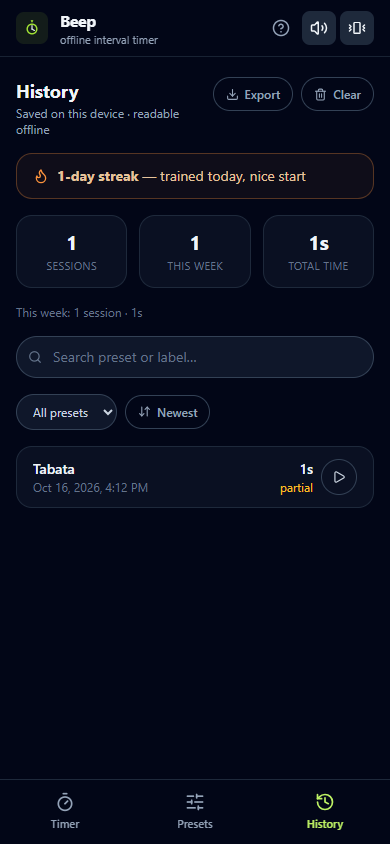
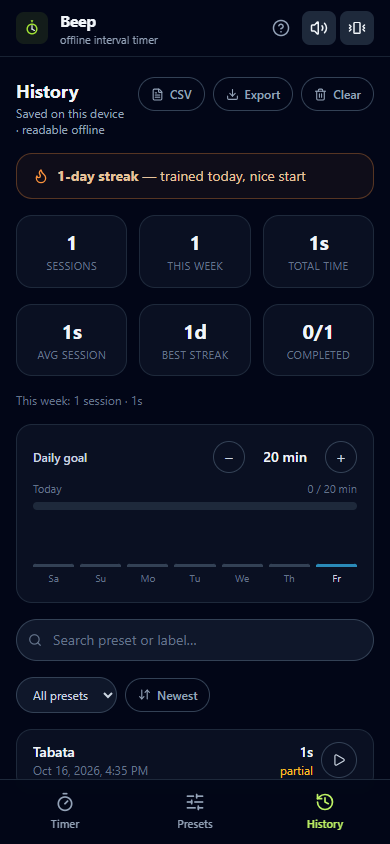
feat(insights): history stats, 7-day activity strip with daily goal, CSV export

diff --git a/public/sw.js b/public/sw.js
@@ -10,7 +10,7 @@
  * Bump VERSION whenever icons / manifest / anything precached changes so old
  * caches get garbage-collected on activate — `npm run bump:cache` does it.
  */
-const VERSION = 'v6';
+const VERSION = 'v7';
 const CACHE = `beep-${VERSION}`;
 
 const CORE_ASSETS = [

diff --git a/README.md b/README.md
@@ -45,6 +45,8 @@
 - **Preferences where they're used** (chips on the timer card): Big numbers (96px digits for across-the-room viewing), Halfway chime (opt-in midpoint cue), Voice cues ("Work, round 3 of 8" via `speechSynthesis`), Left-handed layout (controls swap sides), Auto-pause when backgrounded — plus a **volume slider** and **Test sound / Test haptics** buttons to check the cues before a real session <!-- claim:prefs -->
 - **Cue sound themes** — Beep / Chime / Click in preferences: each theme runs the same cue sequence through a different waveform and envelope (still zero audio files, still offline), the switch plays a preview on tap, and the choice persists across restarts <!-- claim:cues -->
 - **One-file full backup & restore** — presets + history + settings as a single `beep-backup-YYYY-MM-DD.json`; restore **merges by id** (anything already on this device wins, so re-importing the same file is a no-op), validates and clamps every field, and reports exactly what it added or skipped — never a silent overwrite <!-- claim:backup -->
+- **Stats that tell the truth** — average session, best-ever streak and completed/partial counts next to the weekly totals, plus a **7-day activity strip** measured against a **daily minutes goal** (a ±5 min stepper in history; 0 = goal off) <!-- claim:stats -->
+- **CSV export next to the JSON one** — one RFC-quoted row per session (labels with commas/quotes cannot break the row), opens straight into any spreadsheet <!-- claim:csv -->
 - Denied-permission UX: the Timer screen says **once** (dismissible) that notifications are off and what still works — no silent failure <!-- no-check: requires a browser profile with notifications already denied, which headless Chrome cannot set up mid-session; the ask-once permission flow itself is covered by the session-start check -->
 - "Offline" pill appears the moment the network drops <!-- no-check: needs the network to drop mid-session; the offline phase kills the server and reloads instead, which proves the cache path but not the pill's live transition. Behaviour on a real phone: Android checklist row 3. -->
 
@@ -189,21 +191,21 @@ Any other static host works too — the build uses a relative base (`base: './'`
 └─ .github/workflows/        # deploy.yml (test-then-deploy) + ci.yml (test on push/PR)
 ```
 
-## Automated checks — `npm run test:smoke` (70 checks) + `npm run test:claims`
+## Automated checks — `npm run test:smoke` (74 checks) + `npm run test:claims`
 
 **`npm run test:claims`** is the gate that makes this section meaningful. Until Round 4, "every feature claim is backed by a check" was a *discipline* — nothing read the README. `scripts/audit-claims.mjs` now parses every feature bullet under **Core** / **Installable PWA** and fails the build if a bullet declares no backing, or if a claim id resolves to no check:
 
 ```
-claim-audit: 33 feature bullets — 26 backed by checks, 7 exempt (with written reasons), 0 broken. 70 checks in the suite.
+claim-audit: 35 feature bullets — 28 backed by checks, 7 exempt (with written reasons), 0 broken. 74 checks in the suite.
 ```
 
 Each bullet carries either an id that resolves to a real check name (`<!-- claim:ring-tap -->`, or the older `(#1)` style) **or** `<!-- no-check: reason -->`, whose reason may not be empty. Exemptions are real, numbered, and printed on every run — notification *delivery*, OS throttling, haptics/audio, the install prompt and the Wake Lock hint are the seven that cannot be asserted in headless Chrome, and each says so and points at the device-checklist row that proves it. Verified to fail: add an unbacked bullet and CI exits 1.
 
-70 checks in real headless Chrome: app renders · zero console/page errors · no horizontal overflow at 390 px · **the preset rail proven scrollable with a visible scrollbar and a "more to the right" fade, seeded with 14 presets so overflow is forced rather than lucky** · **NEXT preview present before start** · **the ring itself measured as a ≥200px pointer-cursor tap target** · **`prefers-reduced-motion` asserted to actually flatten transitions (not merely to exist)** · **assertive live region present *and* carrying text** · manifest installable · service worker active · **404.html redirect served** · **3-2-1 get-ready countdown appears on Start** · start + finish a session (this also exercises the notification-permission flow) · **session summary renders after finish** · history persisted to `localStorage` · export/import controls present · **EMOM builtin + duplicate control actually rendered** · **share-link round trip (`?p=` → offer → accept → persisted → reorder controls appear)** · **start → kill the page mid-session → relaunch → the Resume card shows the real saved position → Resume continues from it, Discard clears it** · **finishing a live session confirms first ("Keep going" resumes, "Stop & save" completes)** · **the back button mid-session pauses and confirms without navigating away** · **a session label typed at the end of a session shows up on that session's history entry** · **history: Run again loads the preset into the timer, the filter narrows the list, the weekly total and Export button exist** · **the sort toggle is flipped and the rendered order is proven to change** (history is seeded with two deliberately different durations first, so this is signal rather than luck) · **the streak counter renders a real day count** · **volume slider + Test sound / Test haptics controls, `aria-valuenow` on the ring** · **cue sound theme (Beep / Chime / Click) switch proven to persist through a reload** · **get-ready countdown set to Off → Start skips the 3-2-1 entirely (and the length choice persists, default restored for the checks after)** · **Full backup downloads a real JSON file (presets + history + settings) → a modified copy of it is restored and every piece — new session, new preset, changed settings — proven to land, with the fixtures cleaned up afterwards** · **cold-load skeleton present and iOS splash links in the shell with the splash image actually served** · **`theme-color` tints during a live work phase** · **`?preset=…&autostart=1` (a manifest shortcut) launches straight into the 3-2-1** · **server killed → app reloads from cache → timer still runs → history survives** · **changed asset + changed sw.js bytes → update toast appears → Refresh serves the new file without a hard reload** (the exact path a `bump:cache` release takes) — and it regenerates the screenshots above.
+74 checks in real headless Chrome: app renders · zero console/page errors · no horizontal overflow at 390 px · **the preset rail proven scrollable with a visible scrollbar and a "more to the right" fade, seeded with 14 presets so overflow is forced rather than lucky** · **NEXT preview present before start** · **the ring itself measured as a ≥200px pointer-cursor tap target** · **`prefers-reduced-motion` asserted to actually flatten transitions (not merely to exist)** · **assertive live region present *and* carrying text** · manifest installable · service worker active · **404.html redirect served** · **3-2-1 get-ready countdown appears on Start** · start + finish a session (this also exercises the notification-permission flow) · **session summary renders after finish** · history persisted to `localStorage` · export/import controls present · **EMOM builtin + duplicate control actually rendered** · **share-link round trip (`?p=` → offer → accept → persisted → reorder controls appear)** · **start → kill the page mid-session → relaunch → the Resume card shows the real saved position → Resume continues from it, Discard clears it** · **finishing a live session confirms first ("Keep going" resumes, "Stop & save" completes)** · **the back button mid-session pauses and confirms without navigating away** · **a session label typed at the end of a session shows up on that session's history entry** · **history: Run again loads the preset into the timer, the filter narrows the list, the weekly total and Export button exist** · **the sort toggle is flipped and the rendered order is proven to change** (history is seeded with two deliberately different durations first, so this is signal rather than luck) · **the streak counter renders a real day count** · **volume slider + Test sound / Test haptics controls, `aria-valuenow` on the ring** · **cue sound theme (Beep / Chime / Click) switch proven to persist through a reload** · **get-ready countdown set to Off → Start skips the 3-2-1 entirely (and the length choice persists, default restored for the checks after)** · **Full backup downloads a real JSON file (presets + history + settings) → a modified copy of it is restored and every piece — new session, new preset, changed settings — proven to land, with the fixtures cleaned up afterwards** · **history stats render average session / best streak / completed counts, the 7-day activity strip draws one column per day, and the daily-goal stepper moves the goal by 5 and persists it** · **CSV export downloads for real: exact header line, one row per saved session, the labelled session included** · **cold-load skeleton present and iOS splash links in the shell with the splash image actually served** · **`theme-color` tints during a live work phase** · **`?preset=…&autostart=1` (a manifest shortcut) launches straight into the 3-2-1** · **server killed → app reloads from cache → timer still runs → history survives** · **changed asset + changed sw.js bytes → update toast appears → Refresh serves the new file without a hard reload** (the exact path a `bump:cache` release takes) — and it regenerates the screenshots above.
 
 The same test runs on every push/PR in **GitHub Actions** (`.github/workflows/ci.yml`, screenshots uploaded as artifacts) and gates the Pages deploy.
 
-**Platform coverage, stated precisely:** the 70 checks run on **Ubuntu and macOS** CI runners, and locally on **Windows** — that is what makes the harness's "cross-platform" claim true, and Round 4 added the macOS job because until then only Ubuntu had ever exercised the `darwin` branch of the Chrome resolver. The byte-level checksum gates run on Ubuntu only, because `sha256sum` does not exist on macOS (the macOS job uses `shasum -a 256` for the same assertion). Windows CI is not configured — it is exercised only by local runs, which is the one platform claim in this README that a reviewer cannot verify from the Actions tab.
+**Platform coverage, stated precisely:** the 74 checks run on **Ubuntu and macOS** CI runners, and locally on **Windows** — that is what makes the harness's "cross-platform" claim true, and Round 4 added the macOS job because until then only Ubuntu had ever exercised the `darwin` branch of the Chrome resolver. The byte-level checksum gates run on Ubuntu only, because `sha256sum` does not exist on macOS (the macOS job uses `shasum -a 256` for the same assertion). Windows CI is not configured — it is exercised only by local runs, which is the one platform claim in this README that a reviewer cannot verify from the Actions tab.
 
 > **Deliberate non-goals:** no Lighthouse CI — the PWA audit category was removed in Lighthouse 12 and perf scores on shared runners are flaky, so the smoke test asserts installability/offline behaviour directly instead. No Playwright either: the puppeteer-core harness covers the same ground with zero extra dependencies. Chrome is resolved per platform (`CHROME_PATH` env overrides) rather than version-pinned.
 
